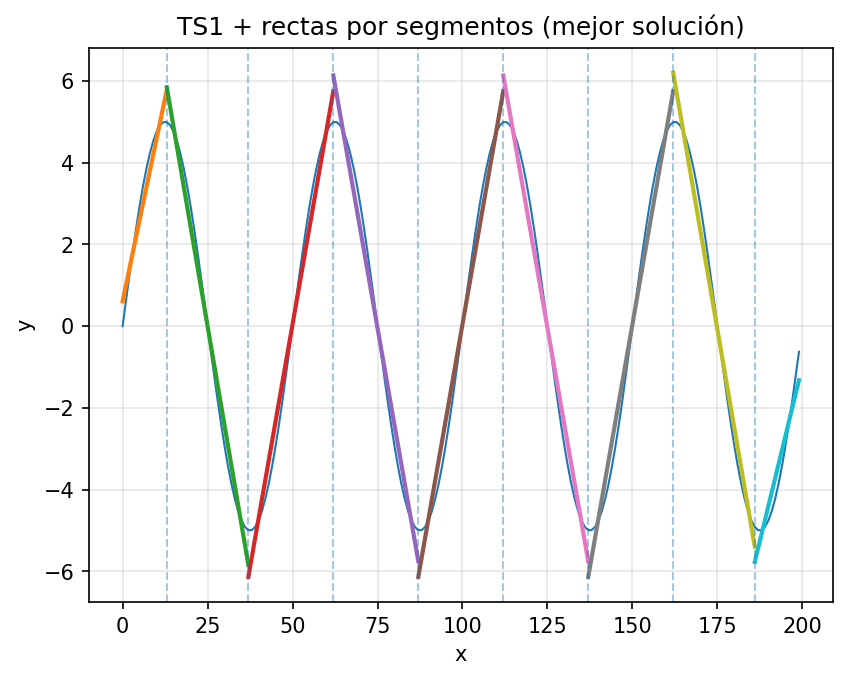
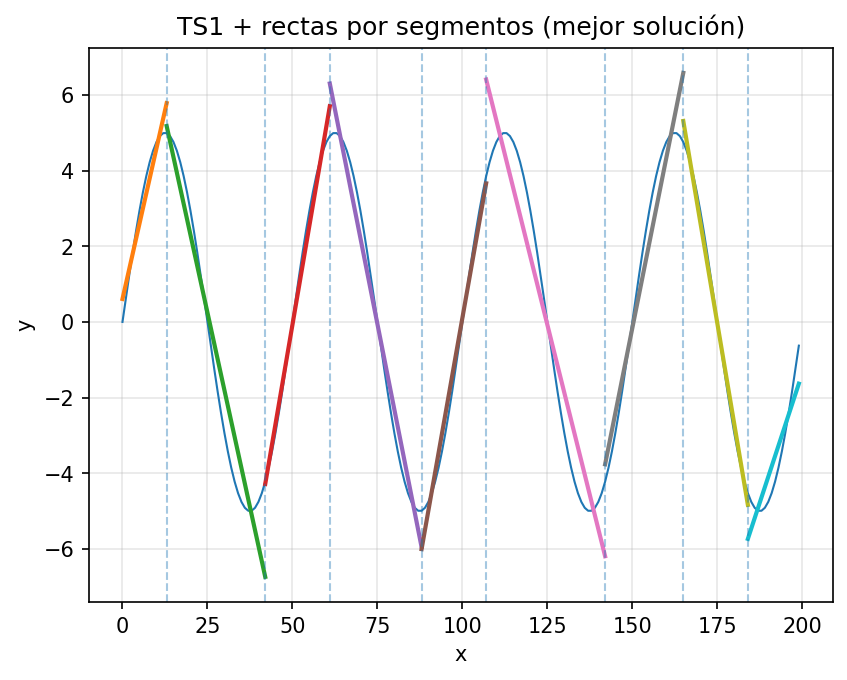
Random Search terminado

diff --git a/random_search/search.py b/random_search/search.py
@@ -13,71 +13,9 @@ from .metrics import global_rmse_for_cuts
 
 @dataclass(frozen=True)
 class SearchConfig:
-    """Parámetros de la búsqueda por épocas."""
+    """Parámetros de la búsqueda aleatoria."""
     num_segmentos: int = 9
     epochs: int = 200
-    candidates_per_epoch: int = 50
-    p_random: float = 0.25
-    seed: int = 123
-    step_start: int = 6
-    step_end: int = 1
-
-
-def _epoch_step(epoch: int, epochs: int, step_start: int, step_end: int) -> int:
-    """
-    Reduce el tamaño de mutación linealmente:
-      - al inicio: step_start
-      - al final:  step_end
-    """
-    if epochs <= 1:
-        return max(1, step_end)
-    t = (epoch - 1) / (epochs - 1)
-    step = round(step_start + (step_end - step_start) * t)
-    return max(1, int(step))
-
-
-def mutate_cuts(cuts: List[int], n: int, step: int) -> List[int]:
-    """
-    Mutación compatible con TU generador actual.
-
-    Mantiene estas reglas (tal y como las impone tu generar_segmentos):
-      - rango: cortes en [2, n-3]  (porque tú usas range(2, n-2))
-      - orden creciente
-      - separación mínima entre cortes: >= 2
-    """
-    if not cuts:
-        return []
-
-    lo, hi = 2, n - 3
-    new_cuts = cuts[:]  # copia
-
-    idx = random.randrange(len(new_cuts))
-    new_cuts[idx] += random.randint(-step, step)
-
-    # 1) clamp a rango permitido
-    new_cuts[idx] = max(lo, min(hi, new_cuts[idx]))
-
-    # 2) ordenar
-    new_cuts.sort()
-
-    # 3) reparar separación mínima (>=2)
-    for i in range(1, len(new_cuts)):
-        if new_cuts[i] - new_cuts[i - 1] < 2:
-            new_cuts[i] = new_cuts[i - 1] + 2
-
-    # 4) si nos pasamos por arriba, empujar hacia atrás
-    if new_cuts[-1] > hi:
-        new_cuts[-1] = hi
-        for i in range(len(new_cuts) - 2, -1, -1):
-            new_cuts[i] = min(new_cuts[i], new_cuts[i + 1] - 2)
-
-    # 5) si nos pasamos por abajo, empujar hacia delante
-    if new_cuts[0] < lo:
-        new_cuts[0] = lo
-        for i in range(1, len(new_cuts)):
-            new_cuts[i] = max(new_cuts[i], new_cuts[i - 1] + 2)
-
-    return new_cuts
 
 
 def optimize_cuts(
@@ -86,37 +24,34 @@ def optimize_cuts(
     x: Optional[np.ndarray] = None,
 ) -> Tuple[List[int], float]:
     """
-    Búsqueda por épocas:
-
-    - Con probabilidad p_random: reinicio aleatorio usando TU segmentos.generar_segmentos()
-    - Si no: mutación de la mejor solución
-    - Objetivo: minimizar el RMSE global
+    Búsqueda puramente aleatoria por épocas:
+    - Genera un vector de segmentos inicial y evalúa su RMSE.
+    - En cada época, genera otro vector de segmentos nuevo.
+    - Evalúa el RMSE de este nuevo candidato y conserva siempre el mejor.
     """
-    random.seed(cfg.seed)
     y = np.asarray(y, dtype=float)
     n = len(y)
 
+    # 1. Genera el primer segmento y evalúa su RMSE medio
     best_cuts = segmentos.generar_segmentos(cfg.num_segmentos, n)
     best_score = global_rmse_for_cuts(y, best_cuts, x=x)
     print(f"Inicial | RMSE global={best_score:.6f} | cuts={best_cuts}")
 
+    # 2. Repite el proceso el número de épocas indicada
     for epoch in range(1, cfg.epochs + 1):
-        step = _epoch_step(epoch, cfg.epochs, cfg.step_start, cfg.step_end)
+        # Genera otro vector de segmentos de la misma manera
+        candidate_cuts = segmentos.generar_segmentos(cfg.num_segmentos, n)
+        
+        # Evalúa el RMSE medio del nuevo candidato
+        candidate_score = global_rmse_for_cuts(y, candidate_cuts, x=x)
+
         improved = False
+        # Se queda con el mejor
+        if candidate_score < best_score:
+            best_score = candidate_score
+            best_cuts = candidate_cuts
+            improved = True
 
-        for _ in range(cfg.candidates_per_epoch):
-            if random.random() < cfg.p_random:
-                candidate = segmentos.generar_segmentos(cfg.num_segmentos, n)
-            else:
-                candidate = mutate_cuts(best_cuts, n, step=step)
-
-            score = global_rmse_for_cuts(y, candidate, x=x)
-
-            if score < best_score:
-                best_score = score
-                best_cuts = candidate
-                improved = True
-
-        print(f"Epoch {epoch:4d} | RMSE global={best_score:.6f} | step={step} | improved={improved}")
+        print(f"Epoch {epoch:4d} | RMSE global={best_score:.6f} | improved={improved}")
 
     return best_cuts, best_score

diff --git a/main.py b/main.py
@@ -1,31 +1,5 @@
 from random_search.main import random_search
 import numpy as np
-import time
-
-
-# Variable global para guardar el momento de inicio
-inicio_tiempo = None
-
-def comenzar_cronometro():
-    global inicio_tiempo
-    inicio_tiempo = time.time()
-    print("Cronómetro iniciado...")
-
-def parar_cronometro():
-    global inicio_tiempo
-    if inicio_tiempo is None:
-        print("El cronómetro no ha sido iniciado.")
-        return
-    
-    fin_tiempo = time.time()
-    tiempo_transcurrido = fin_tiempo - inicio_tiempo
-    
-    print(f"Cronómetro detenido.")
-    print(f"Tiempo total: {tiempo_transcurrido:.2f} segundos")
-    
-    # Reiniciamos la variable para el siguiente uso
-    inicio_tiempo = None
-
 
 #Función para cargar datos
 def cargar_datos(filename):
@@ -72,9 +46,7 @@ def menu():
                 eleccion = input("Opción: ").lower()
                 
                 if eleccion == 'a':
-                    comenzar_cronometro()
                     random_search(datos, serie['k'])
-                    parar_cronometro()
                 elif eleccion == 'b':
                     metricas(None, datos, serie['k'], "Hill Climbing")
                 elif eleccion == 'c':

diff --git a/random_search/main.py b/random_search/main.py
@@ -1,20 +1,18 @@
 # random_search/main.py
-import auxiliar
 from .metrics import segment_report
 from .search import SearchConfig, optimize_cuts
-from .plotting import plot_series_with_piecewise_lines   # <-- AÑADE ESTO
+from .plotting import plot_series_with_piecewise_lines
+import cronometro
 
 
 def random_search(serie, num_segmentos) -> None:
 
     cfg = SearchConfig(
         num_segmentos,
-        epochs=200,
-        candidates_per_epoch=50,
-        p_random=0.25,
-        seed=123,
+        epochs=50000,
     )
 
+    cronometro.comenzar_cronometro()
     best_cuts, best_rmse = optimize_cuts(serie, cfg)
 
     print("\n===== MEJOR SOLUCIÓN =====")
@@ -24,6 +22,7 @@ def random_search(serie, num_segmentos) -> None:
     print("\nDetalle por segmento:")
     segment_report(serie, best_cuts, verbose=True)
 
+    cronometro.parar_cronometro()
     # --- DIBUJO ---
     plot_series_with_piecewise_lines(
         serie,

diff --git a/cronometro.py b/cronometro.py
@@ -1,0 +1,24 @@
+import time
+
+# Variable global para guardar el momento de inicio
+inicio_tiempo = None
+
+def comenzar_cronometro():
+    global inicio_tiempo
+    inicio_tiempo = time.time()
+    print("Cronómetro iniciado...")
+
+def parar_cronometro():
+    global inicio_tiempo
+    if inicio_tiempo is None:
+        print("El cronómetro no ha sido iniciado.")
+        return
+    
+    fin_tiempo = time.time()
+    tiempo_transcurrido = fin_tiempo - inicio_tiempo
+    
+    print(f"Cronómetro detenido.")
+    print(f"Tiempo total: {tiempo_transcurrido:.2f} segundos")
+    
+    # Reiniciamos la variable para el siguiente uso
+    inicio_tiempo = None

diff --git a/segmentos.py b/segmentos.py
@@ -1,7 +1,5 @@
 import random
 
-
-#Falta añadir la condicion de que los segmentos sean minimo de 2 elementos
 def generar_segmentos(num_segmentos, numero_puntos_serie):
     num_cortes = num_segmentos - 1
     if numero_puntos_serie < (num_cortes + 1) * 2:
